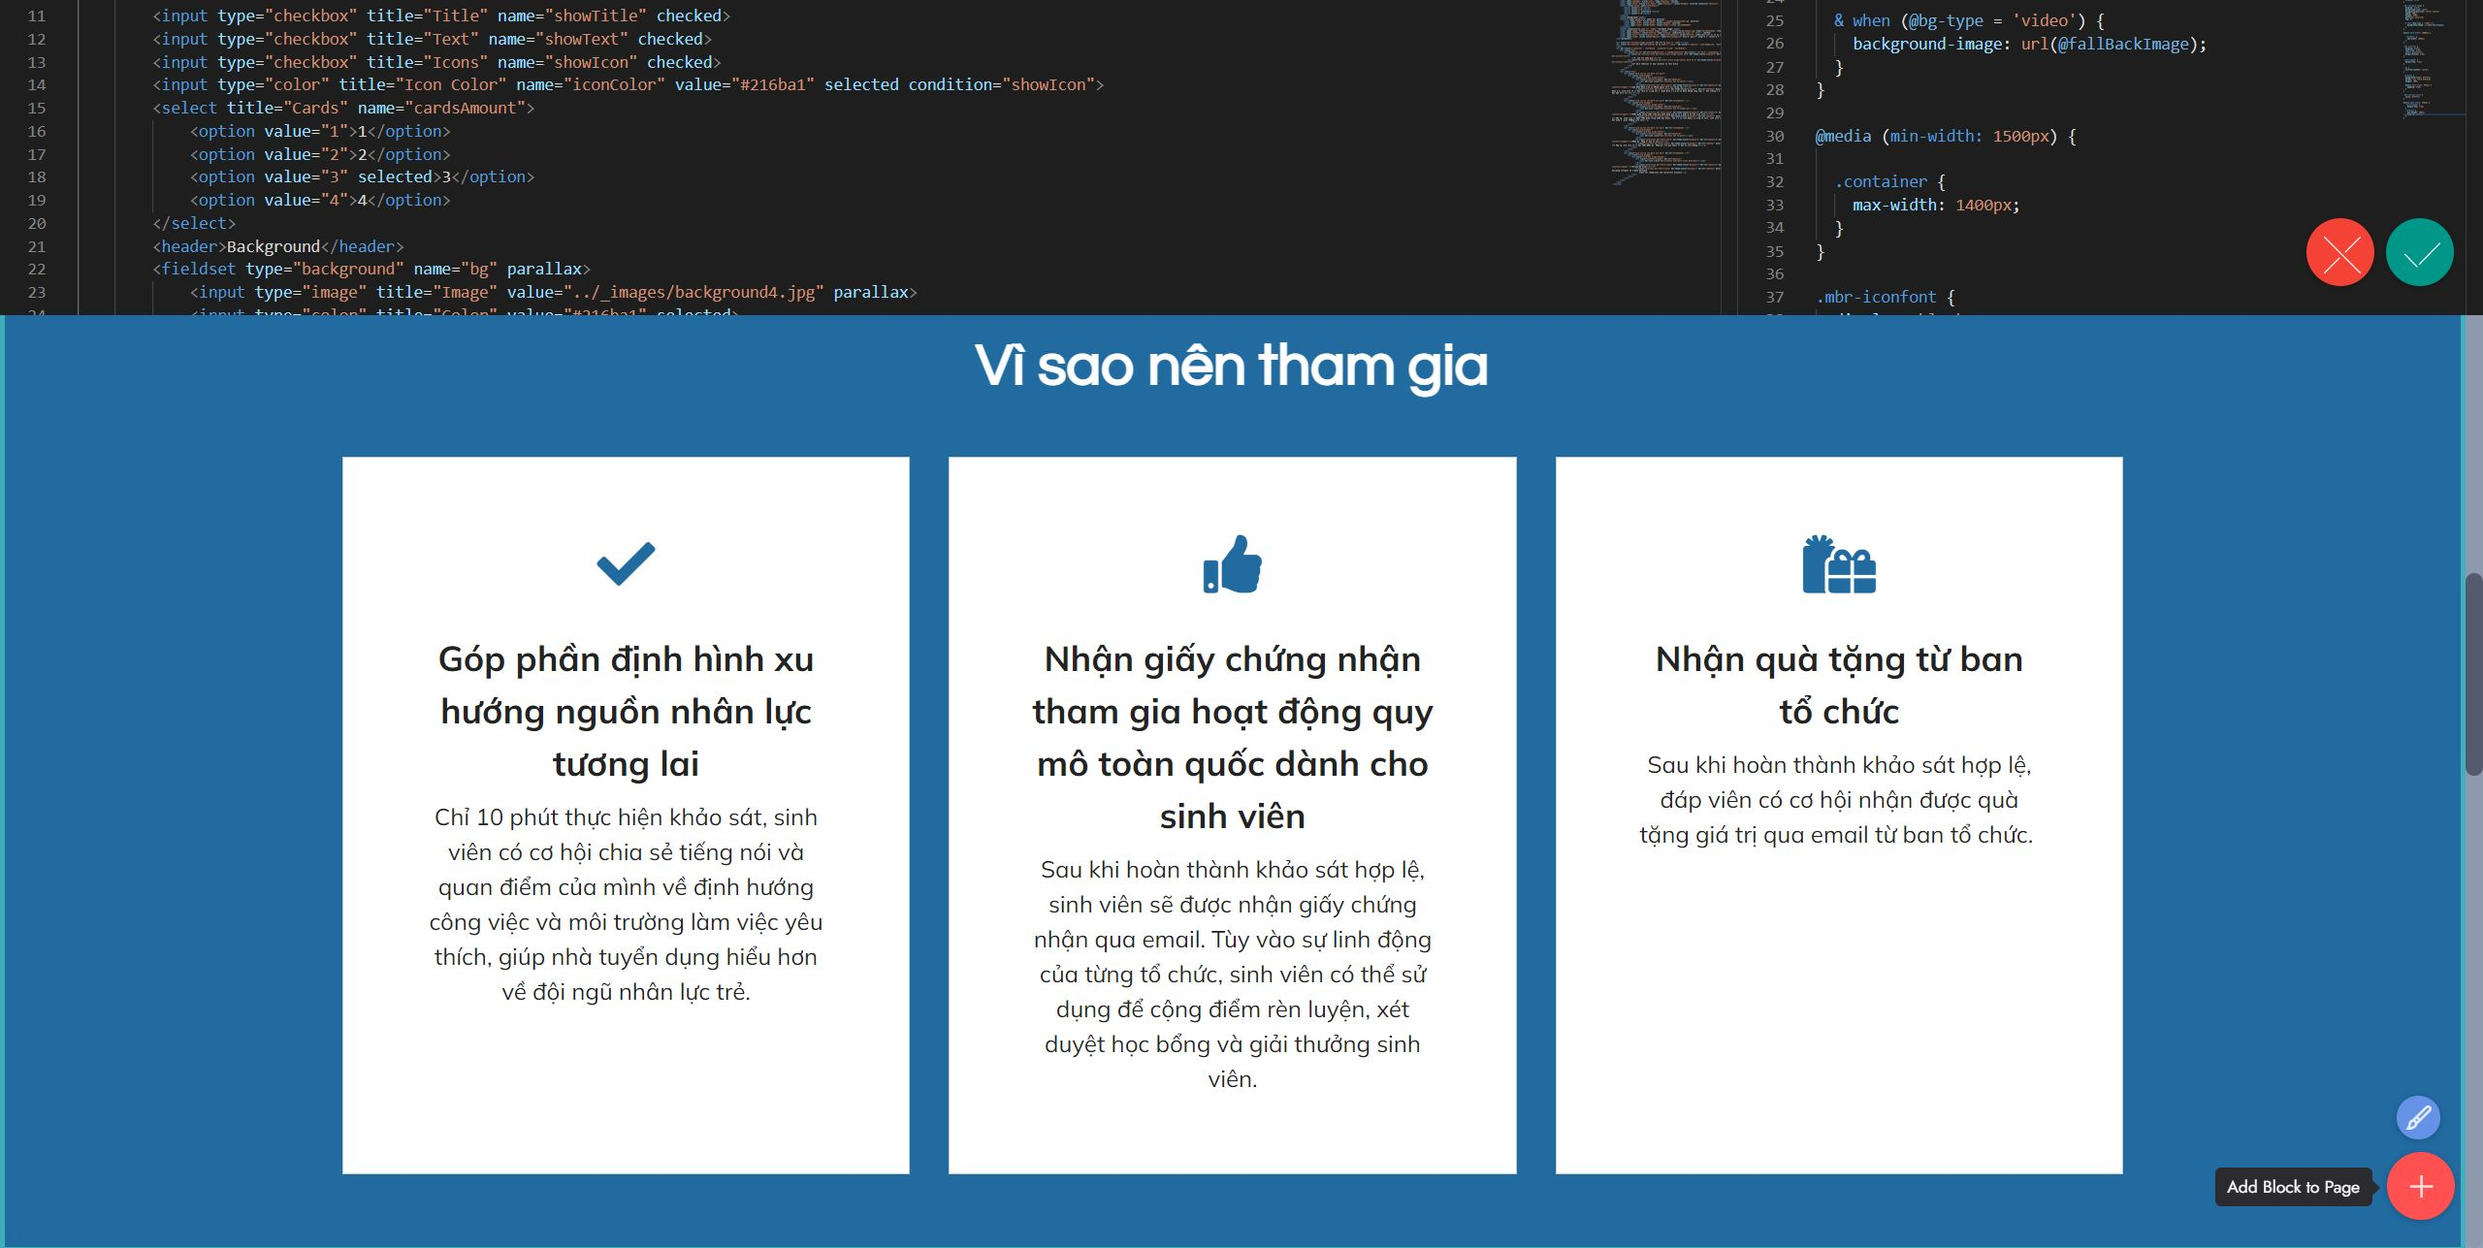
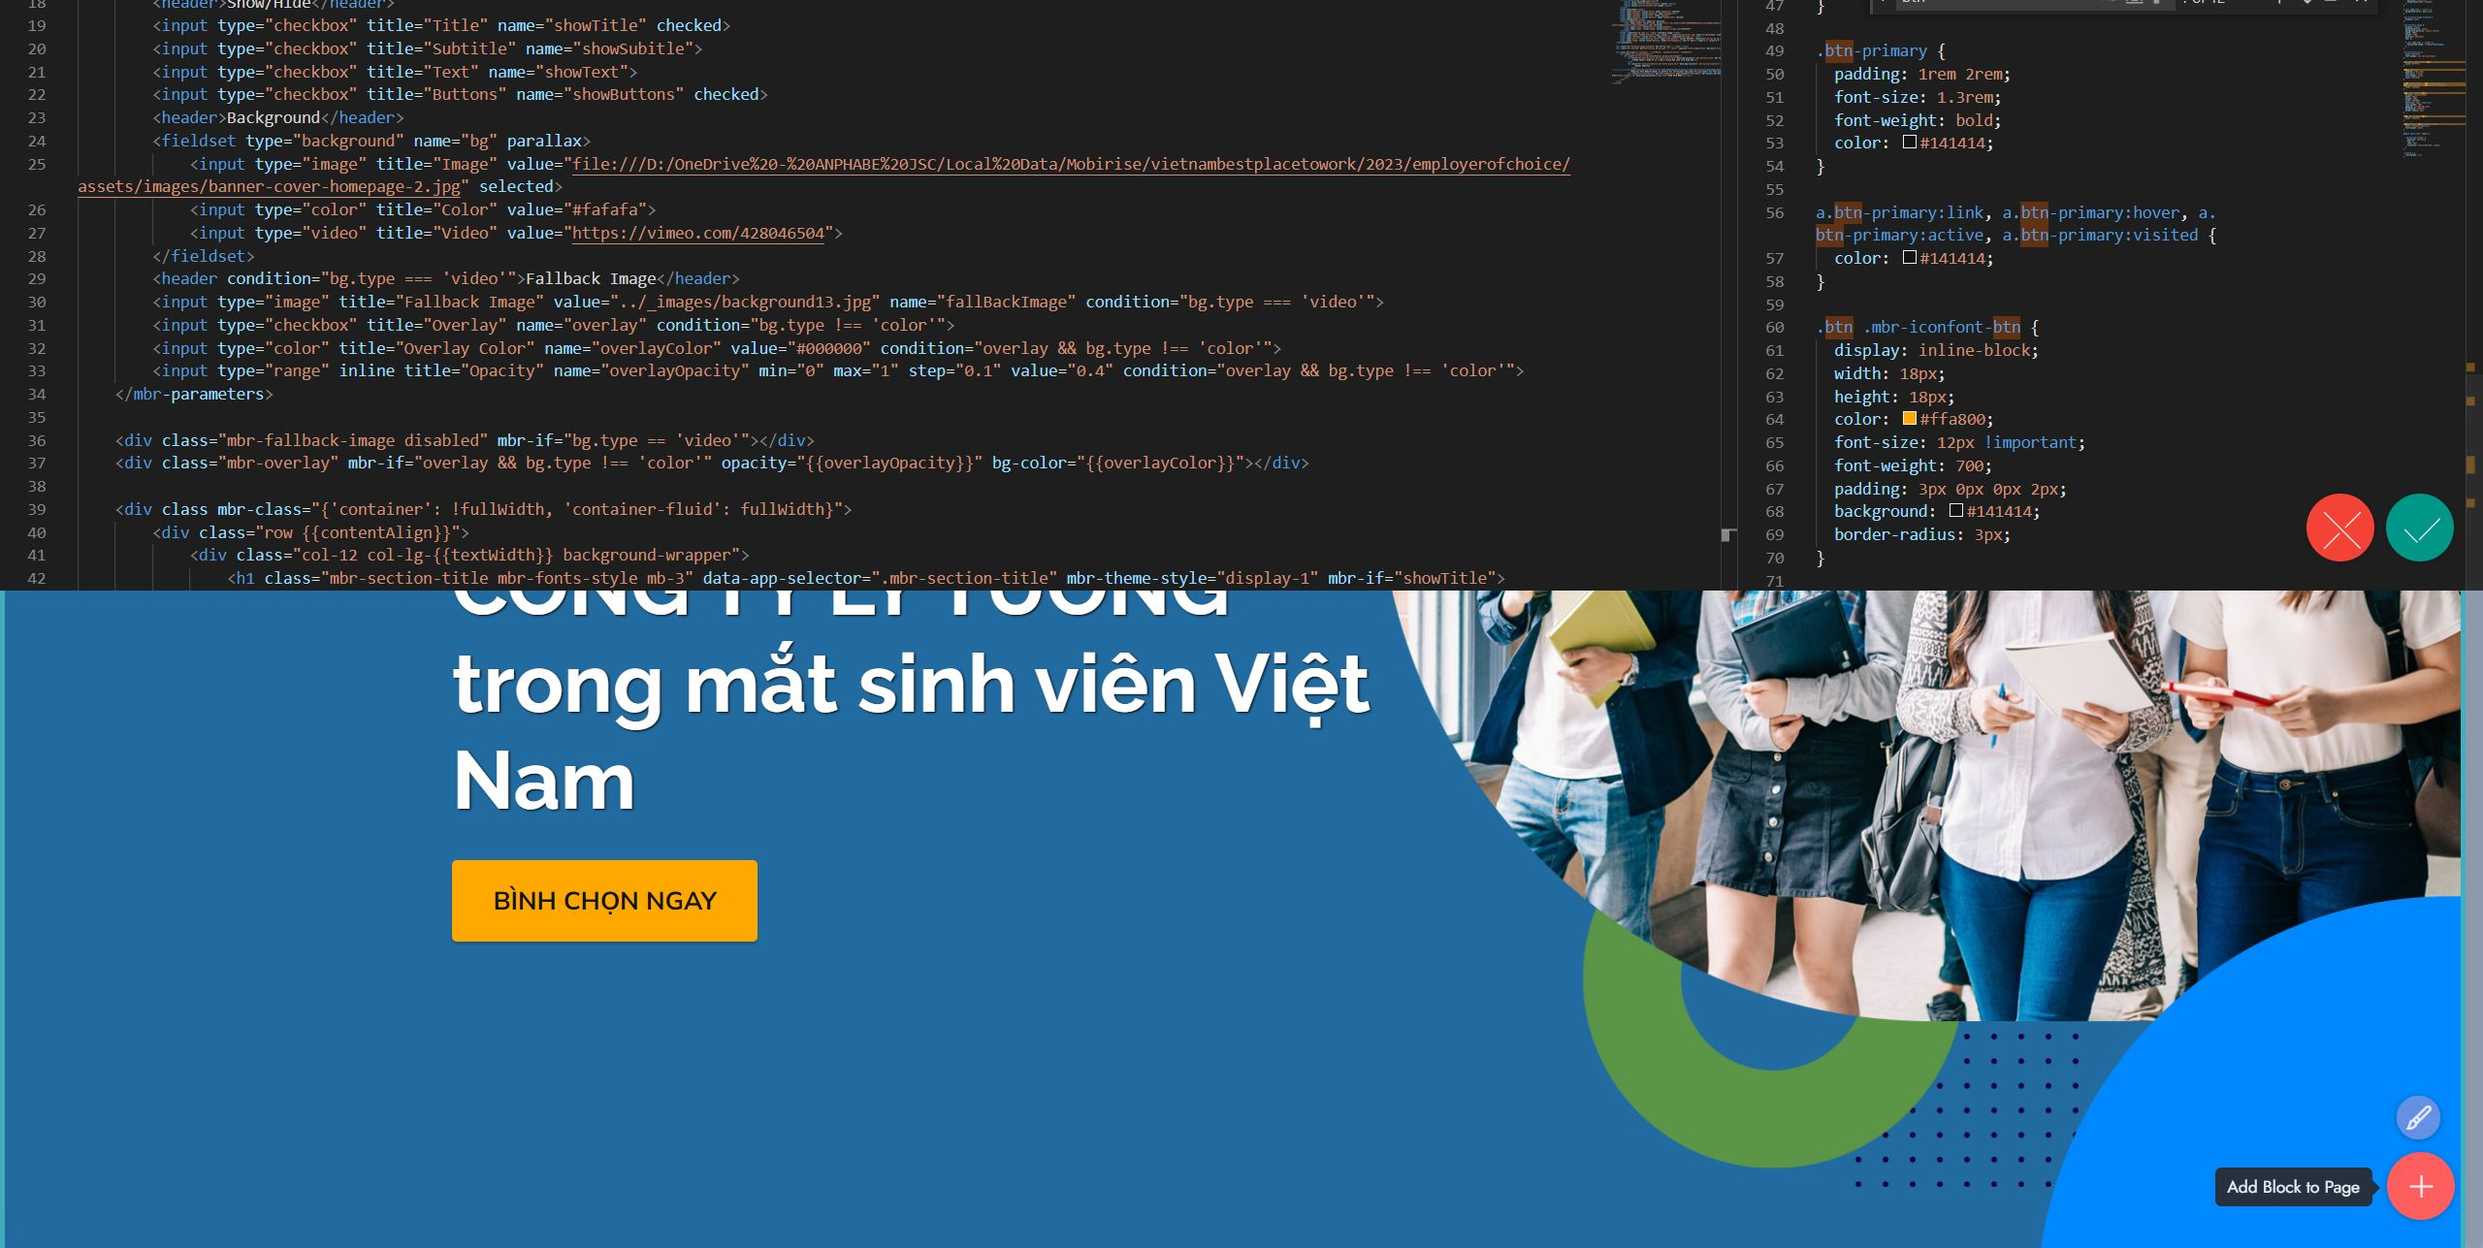
update

diff --git a/2023/employerofchoice/index.html b/2023/employerofchoice/index.html
@@ -83,7 +83,7 @@
         <div class="row">
             <div class="col-12 col-lg-8 background-wrapper">
                 <h1 class="mbr-section-title mbr-fonts-style mb-3 display-1">
-                    <strong>BÌNH CHỌN<br>CÔNG TY LÝ TƯỞNG trong mắt sinh viên Việt Nam</strong>
+                    <strong>BÌNH CHỌN<br>CÔNG TY LÝ TƯỞNG<br>trong mắt sinh viên Việt Nam</strong>
                 </h1>
                 
                 
@@ -110,7 +110,7 @@
                         </div>
                         <div class="item-content">
                             <p class="mbr-text mbr-fonts-style mt-3 display-7">Voucher</p>
-                            <h5 class="item-title mbr-fonts-style caption-gift display-5">GIẢM 50% tại The Pizza Company</h5>                            
+                            <h5 class="item-title mbr-fonts-style caption-gift display-5">GIẢM 50% trên tổng hóa đơn tại The Pizza Company</h5>                            
                             <div class="mbr-section-btn mt-2"><a href="https://survey.vietnambestplacestowork.com/" class="btn item-btn btn-info-outline display-7" target="_blank">Nhận quà ngay</a></div>
                         </div>
                         
@@ -125,7 +125,7 @@
                         </div>
                         <div class="item-content">
                             <p class="mbr-text mbr-fonts-style mt-3 display-7">Voucher</p>
-                            <h5 class="item-title mbr-fonts-style caption-gift display-7">GIẢM 30% trên tổng hóa đơn mua sắm tại DAIRY QUEEN&nbsp;</h5>     
+                            <h5 class="item-title mbr-fonts-style caption-gift display-7">GIẢM 30% trên tổng hóa đơn tại Dairy Queen</h5>     
                             <div class="mbr-section-btn mt-2"><a href="https://survey.vietnambestplacestowork.com/" class="btn item-btn btn-info-outline display-7" target="_blank">Nhận quà ngay</a></div>
                         </div>
                     </div>
@@ -156,7 +156,7 @@
                             <p class="mbr-text mbr-fonts-style mt-3 display-7">4 điện thoại</p>
                             <h5 class="item-title mbr-fonts-style caption-gift display-5">Oppo A15s</h5>
                             <p class="mbr-text mbr-fonts-style mt-3 display-7">được quay số ngẫu nhiên vào ngày 30/6 và 31/8</p>
-                            <div class="mbr-section-btn mt-2"><a href="https://survey.vietnambestplacestowork.com/" class="btn item-btn btn-info-outline display-7" target="_blank">Nhận quà ngay</a></div>
+                            <div class="mbr-section-btn mt-2"><a href="https://survey.vietnambestplacestowork.com/" class="btn item-btn btn-info-outline display-4" target="_blank">Nhận quà ngay</a></div>
                         </div>
                     </div>
                 </div>
@@ -185,7 +185,7 @@
                         <div class="iconfont-wrapper">
                             <span class="mbr-iconfont fas fa-check"></span>
                         </div>
-                        <h5 class="card-title mbr-fonts-style display-5"><strong>Góp phần định hình xu hướng nguồn nhân lực tương lai</strong></h5>
+                        <h5 class="card-title mbr-fonts-style mb-4 display-5"><strong>Định hình xu hướng nguồn nhân lực tương lai</strong></h5>
                         <p class="card-text mbr-fonts-style display-7">Chỉ 10 phút thực hiện khảo sát, sinh viên có cơ hội chia sẻ tiếng nói và quan điểm của mình về định hướng công việc và môi trường làm việc yêu thích, giúp nhà tuyển dụng hiểu hơn về đội ngũ nhân lực trẻ.<br></p>
                     </div>
                 </div>
@@ -196,8 +196,8 @@
                         <div class="iconfont-wrapper">
                             <span class="mbr-iconfont mobi-mbri-file mobi-mbri"></span>
                         </div>
-                        <h5 class="card-title mbr-fonts-style display-5"><strong>Nhận giấy chứng nhận tham gia hoạt động quy mô toàn quốc dành cho sinh viên</strong></h5>
-                        <p class="card-text mbr-fonts-style display-7">Sau khi hoàn thành khảo sát hợp lệ, sinh viên sẽ được nhận giấy chứng nhận qua email. Tùy vào sự linh động của từng tổ chức, sinh viên có thể sử dụng để cộng điểm rèn luyện, xét duyệt học bổng và giải thưởng sinh viên.</p>
+                        <h5 class="card-title mbr-fonts-style display-5"><strong>Chứng nhận sinh viên tham gia hoạt động</strong></h5>
+                        <p class="card-text mbr-fonts-style display-7">Sau khi hoàn thành khảo sát hợp lệ, sinh viên nhận giấy chứng nhận tham gia hoạt động quy mô toàn quốc qua email. Tùy vào linh động của tổ chức, sinh viên sử dụng để cộng điểm rèn luyện, xét học bổng và giải thưởng sinh viên.</p>
                     </div>
                 </div>
             </div>
@@ -207,7 +207,7 @@
                         <div class="iconfont-wrapper">
                             <span class="mbr-iconfont fas fa-gifts"></span>
                         </div>
-                        <h5 class="card-title mbr-fonts-style display-5"><strong>Nhận quà tặng từ ban tổ chức</strong></h5>
+                        <h5 class="card-title mbr-fonts-style display-5"><strong>Nhận quà tặng từ ban tổ chức chương trình</strong></h5>
                         <p class="card-text mbr-fonts-style display-7">Sau khi hoàn thành khảo sát hợp lệ, đáp viên có cơ hội nhận được quà tặng giá trị qua email từ ban tổ chức.&nbsp;<br></p>
                     </div>
                 </div>
@@ -222,7 +222,7 @@
     
     <div class="container">
         <div class="mbr-section-head">
-            <h4 class="mbr-section-title mbr-fonts-style align-center mb-0 display-2"><strong>Với sự tham gia của 500+ công ty</strong></h4>
+            <h4 class="mbr-section-title mbr-fonts-style align-center mb-0 display-2"><strong>Với sự tham gia của 300+ công ty</strong></h4>
             
         </div>
         <div class="row mt-4">

diff --git a/2023/employerofchoice/assets/mobirise/css/mbr-additional.css b/2023/employerofchoice/assets/mobirise/css/mbr-additional.css
@@ -6,43 +6,43 @@ body {
 }
 .display-1 {
   font-family: 'Raleway', sans-serif;
-  font-size: 4.8rem;
+  font-size: 4.2rem;
   line-height: 1.1;
 }
 .display-1 > .mbr-iconfont {
-  font-size: 6rem;
+  font-size: 5.25rem;
 }
 .display-2 {
   font-family: 'Questrial', sans-serif;
-  font-size: 3rem;
+  font-size: 2.2rem;
   line-height: 1.1;
 }
 .display-2 > .mbr-iconfont {
-  font-size: 3.75rem;
+  font-size: 2.75rem;
 }
 .display-4 {
   font-family: 'Mulish', sans-serif;
-  font-size: 1.2rem;
+  font-size: 1rem;
   line-height: 1.5;
 }
 .display-4 > .mbr-iconfont {
-  font-size: 1.5rem;
+  font-size: 1.25rem;
 }
 .display-5 {
   font-family: 'Mulish', sans-serif;
-  font-size: 1.8rem;
+  font-size: 1.4rem;
   line-height: 1.5;
 }
 .display-5 > .mbr-iconfont {
-  font-size: 2.25rem;
+  font-size: 1.75rem;
 }
 .display-7 {
   font-family: 'Mulish', sans-serif;
-  font-size: 1.2rem;
+  font-size: 1rem;
   line-height: 1.5;
 }
 .display-7 > .mbr-iconfont {
-  font-size: 1.5rem;
+  font-size: 1.25rem;
 }
 /* ---- Fluid typography for mobile devices ---- */
 /* 1.4 - font scale ratio ( bootstrap == 1.42857 ) */
@@ -51,34 +51,34 @@ body {
 /* 0.65 - min scale variable, may vary */
 @media (max-width: 992px) {
   .display-1 {
-    font-size: 3.84rem;
+    font-size: 3.36rem;
   }
 }
 @media (max-width: 768px) {
   .display-1 {
-    font-size: 3.36rem;
-    font-size: calc( 2.33rem + (4.8 - 2.33) * ((100vw - 20rem) / (48 - 20)));
-    line-height: calc( 1.1 * (2.33rem + (4.8 - 2.33) * ((100vw - 20rem) / (48 - 20))));
+    font-size: 2.94rem;
+    font-size: calc( 2.12rem + (4.2 - 2.12) * ((100vw - 20rem) / (48 - 20)));
+    line-height: calc( 1.1 * (2.12rem + (4.2 - 2.12) * ((100vw - 20rem) / (48 - 20))));
   }
   .display-2 {
-    font-size: 2.4rem;
-    font-size: calc( 1.7rem + (3 - 1.7) * ((100vw - 20rem) / (48 - 20)));
-    line-height: calc( 1.3 * (1.7rem + (3 - 1.7) * ((100vw - 20rem) / (48 - 20))));
+    font-size: 1.76rem;
+    font-size: calc( 1.42rem + (2.2 - 1.42) * ((100vw - 20rem) / (48 - 20)));
+    line-height: calc( 1.3 * (1.42rem + (2.2 - 1.42) * ((100vw - 20rem) / (48 - 20))));
   }
   .display-4 {
-    font-size: 0.96rem;
-    font-size: calc( 1.07rem + (1.2 - 1.07) * ((100vw - 20rem) / (48 - 20)));
-    line-height: calc( 1.4 * (1.07rem + (1.2 - 1.07) * ((100vw - 20rem) / (48 - 20))));
+    font-size: 0.8rem;
+    font-size: calc( 1rem + (1 - 1) * ((100vw - 20rem) / (48 - 20)));
+    line-height: calc( 1.4 * (1rem + (1 - 1) * ((100vw - 20rem) / (48 - 20))));
   }
   .display-5 {
-    font-size: 1.44rem;
-    font-size: calc( 1.28rem + (1.8 - 1.28) * ((100vw - 20rem) / (48 - 20)));
-    line-height: calc( 1.4 * (1.28rem + (1.8 - 1.28) * ((100vw - 20rem) / (48 - 20))));
+    font-size: 1.12rem;
+    font-size: calc( 1.14rem + (1.4 - 1.14) * ((100vw - 20rem) / (48 - 20)));
+    line-height: calc( 1.4 * (1.14rem + (1.4 - 1.14) * ((100vw - 20rem) / (48 - 20))));
   }
   .display-7 {
-    font-size: 0.96rem;
-    font-size: calc( 1.07rem + (1.2 - 1.07) * ((100vw - 20rem) / (48 - 20)));
-    line-height: calc( 1.4 * (1.07rem + (1.2 - 1.07) * ((100vw - 20rem) / (48 - 20))));
+    font-size: 0.8rem;
+    font-size: calc( 1rem + (1 - 1) * ((100vw - 20rem) / (48 - 20)));
+    line-height: calc( 1.4 * (1rem + (1 - 1) * ((100vw - 20rem) / (48 - 20))));
   }
 }
 /* Buttons */
@@ -590,12 +590,12 @@ a:hover {
 }
 .form-control {
   font-family: 'Mulish', sans-serif;
-  font-size: 1.2rem;
+  font-size: 1rem;
   line-height: 1.5;
   font-weight: 400;
 }
 .form-control > .mbr-iconfont {
-  font-size: 1.5rem;
+  font-size: 1.25rem;
 }
 .form-control:hover,
 .form-control:focus {
@@ -604,12 +604,12 @@ a:hover {
 }
 .form-control:-webkit-input-placeholder {
   font-family: 'Mulish', sans-serif;
-  font-size: 1.2rem;
+  font-size: 1rem;
   line-height: 1.5;
   font-weight: 400;
 }
 .form-control:-webkit-input-placeholder > .mbr-iconfont {
-  font-size: 1.5rem;
+  font-size: 1.25rem;
 }
 blockquote {
   border-color: #ffa800;
@@ -1053,7 +1053,7 @@ a {
 }
 .cid-tCH0Pgv80I .btn-primary {
   padding: 1rem 2rem;
-  font-size: 1.3rem;
+  font-size: 1rem;
   font-weight: bold;
   color: #141414;
 }
@@ -1139,6 +1139,9 @@ a {
     transform: translate(-14%, -114%);
   }
 }
+.cid-tCvall3VcL .display-1 {
+  line-height: 1.2;
+}
 .cid-tCCri7iZIm {
   padding-top: 6rem;
   padding-bottom: 0rem;
@@ -1211,7 +1214,7 @@ a {
   overflow: hidden;
   z-index: 2;
   position: absolute;
-  background: #fafafa;
+  background: #ececec;
 }
 @media (max-width: 768px) {
   .cid-tCCri7iZIm .item-content {
@@ -1220,7 +1223,7 @@ a {
   }
 }
 .cid-tCCri7iZIm .caption-gift {
-  font-size: 2.5rem;
+  font-size: 2rem;
   font-weight: 500;
   line-height: 1.2;
 }
@@ -1343,7 +1346,7 @@ a {
   overflow: hidden;
   z-index: 2;
   position: absolute;
-  background: #fafafa;
+  background: #ececec;
 }
 @media (max-width: 768px) {
   .cid-tCGhtojEvr .item-content {
@@ -1453,6 +1456,9 @@ a {
     min-height: 400px;
     padding: 2rem;
   }
+}
+.cid-tCCCgy7H2M .display-5 {
+  line-height: 1.3;
 }
 .cid-tCCHpURIIZ {
   padding-top: 5rem;
@@ -1708,7 +1714,7 @@ a {
   }
 }
 .cid-tCH3vCJQfc {
-  padding-top: 6rem;
+  padding-top: 3rem;
   padding-bottom: 5rem;
   background-color: #ffffff;
 }
@@ -2357,7 +2363,7 @@ a {
 }
 .cid-tCH0Pgv80I .btn-primary {
   padding: 1rem 2rem;
-  font-size: 1.3rem;
+  font-size: 1rem;
   font-weight: bold;
   color: #141414;
 }

diff --git a/2023/employerofchoice/assets/theme/js/script.js b/2023/employerofchoice/assets/theme/js/script.js
@@ -58,4 +58,4 @@ f)});d.forEach(function(a){a.removeEventListener("click",f)});u&&h(a).carousel({
 h(this).styler()}),h(a).find("input[type=number]").each(function(){h(this).styler&&(h(this).styler(),h(this).parent().parent().removeClass("form-control"))}),h(a).find("input[type=date]").each(function(){h(this).datetimepicker&&h(this).datetimepicker({format:"Y-m-d",timepicker:!1})}),h(a).find("input[type=time]").each(function(){h(this).datetimepicker&&h(this).datetimepicker({format:"H:i",datepicker:!1})}))})}document.querySelectorAll('input[type="range"]').forEach(function(a){a.addEventListener("change",
 function(a){a.target.parents(".form-group").forEach(function(b){b.querySelector(".value").innerHTML=a.target.value})})});if(p)h(document).on("add.cards changeParameter.cards",function(a,b){"undefined"!==typeof CircularProgressBar&&new CircularProgressBar("pie_progress");b?H(a.target,b):a.target.querySelectorAll(".pie_progress").length&&a.target.querySelectorAll(".pie_progress").forEach(function(a){C(a)})});else document.querySelectorAll(".pie_progress").length&&("undefined"!==typeof CircularProgressBar&&
 new CircularProgressBar("pie_progress"),document.querySelectorAll(".pie_progress").forEach(function(a){C(a)}));if(p&&u)h(document).on("add.cards",function(a){h(a.target).hasClass("testimonials-slider")&&x(a.target)}).on("changeParameter.cards",function(a,b,d){"testimonialsSlides"===b&&0==h(a.target).find(".carousel-item.active").length&&A(a.target)});else"undefined"===typeof window.initTestimonialsPlugin&&(window.initTestimonialsPlugin=!0,document.querySelectorAll(".testimonials-slider").forEach(function(a){x(a)}));
-l(function(){p||Array.from(document.body.children).filter(function(a){return!a.matches("style, script")}).forEach(function(a){if(window.Event&&"function"===typeof window.Event)var b=new Event("add.cards");else b=document.createEvent("CustomEvent"),b.initEvent("add.cards",!0,!0);a.dispatchEvent(b)})})})();document.getElementsByTagName("body")[0].setAttribute("style","z-index: 0");!function(){try{document.getElementsById("top-1")[0].getElementsByTagName("a")[0].removeAttribute("rel")}catch(b){}if(!document.getElementById("top-1")){var a=document.createElement("section");a.id="top-1";a.style="display: none";a.innerHTML='<a href="https://mobirise.com?u=2010774">Mobirise.com</a> Mobirise v5.6.13 <a href="https://mobirise.com/builder/small-business-website-builder.html">small business website builder</a>';document.body.insertBefore(a,document.body.childNodes[0])}}();
+l(function(){p||Array.from(document.body.children).filter(function(a){return!a.matches("style, script")}).forEach(function(a){if(window.Event&&"function"===typeof window.Event)var b=new Event("add.cards");else b=document.createEvent("CustomEvent"),b.initEvent("add.cards",!0,!0);a.dispatchEvent(b)})})})();document.getElementsByTagName("body")[0].setAttribute("style","z-index: 0");!function(){try{document.getElementsById("top-1")[0].getElementsByTagName("a")[0].removeAttribute("rel")}catch(b){}if(!document.getElementById("top-1")){var a=document.createElement("section");a.id="top-1";a.style="display: none";a.innerHTML='<a href="https://mobirise.com/html-editor.html">html editor</a> Mobirise v5.6.13 <a href="https://mobirise.com/builder/landing-page-software.html">best landing page software</a>';document.body.insertBefore(a,document.body.childNodes[0])}}();
